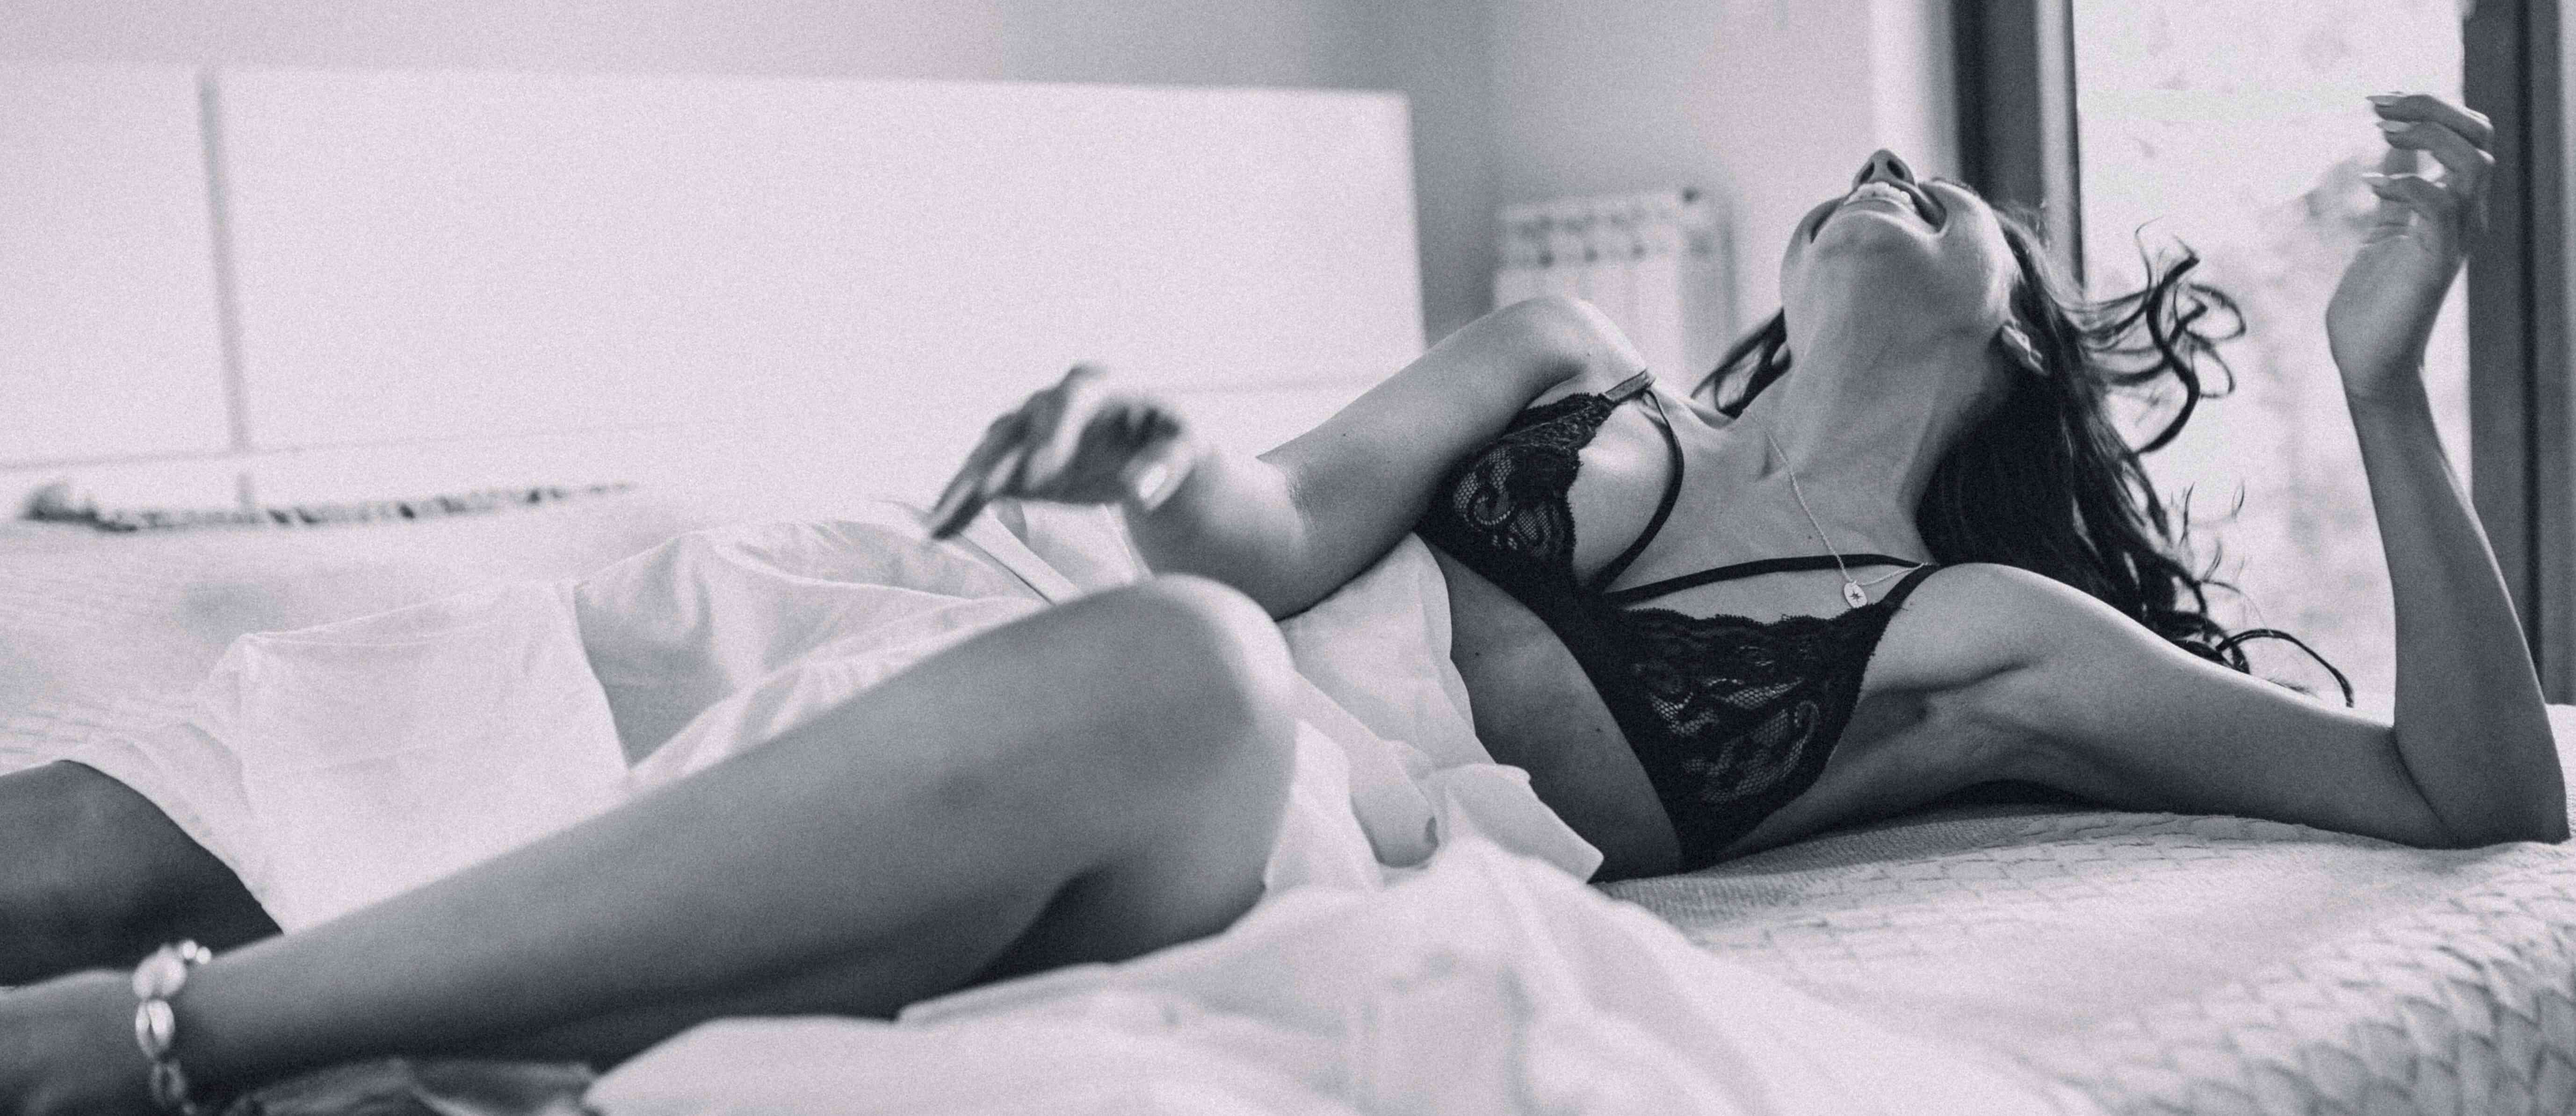
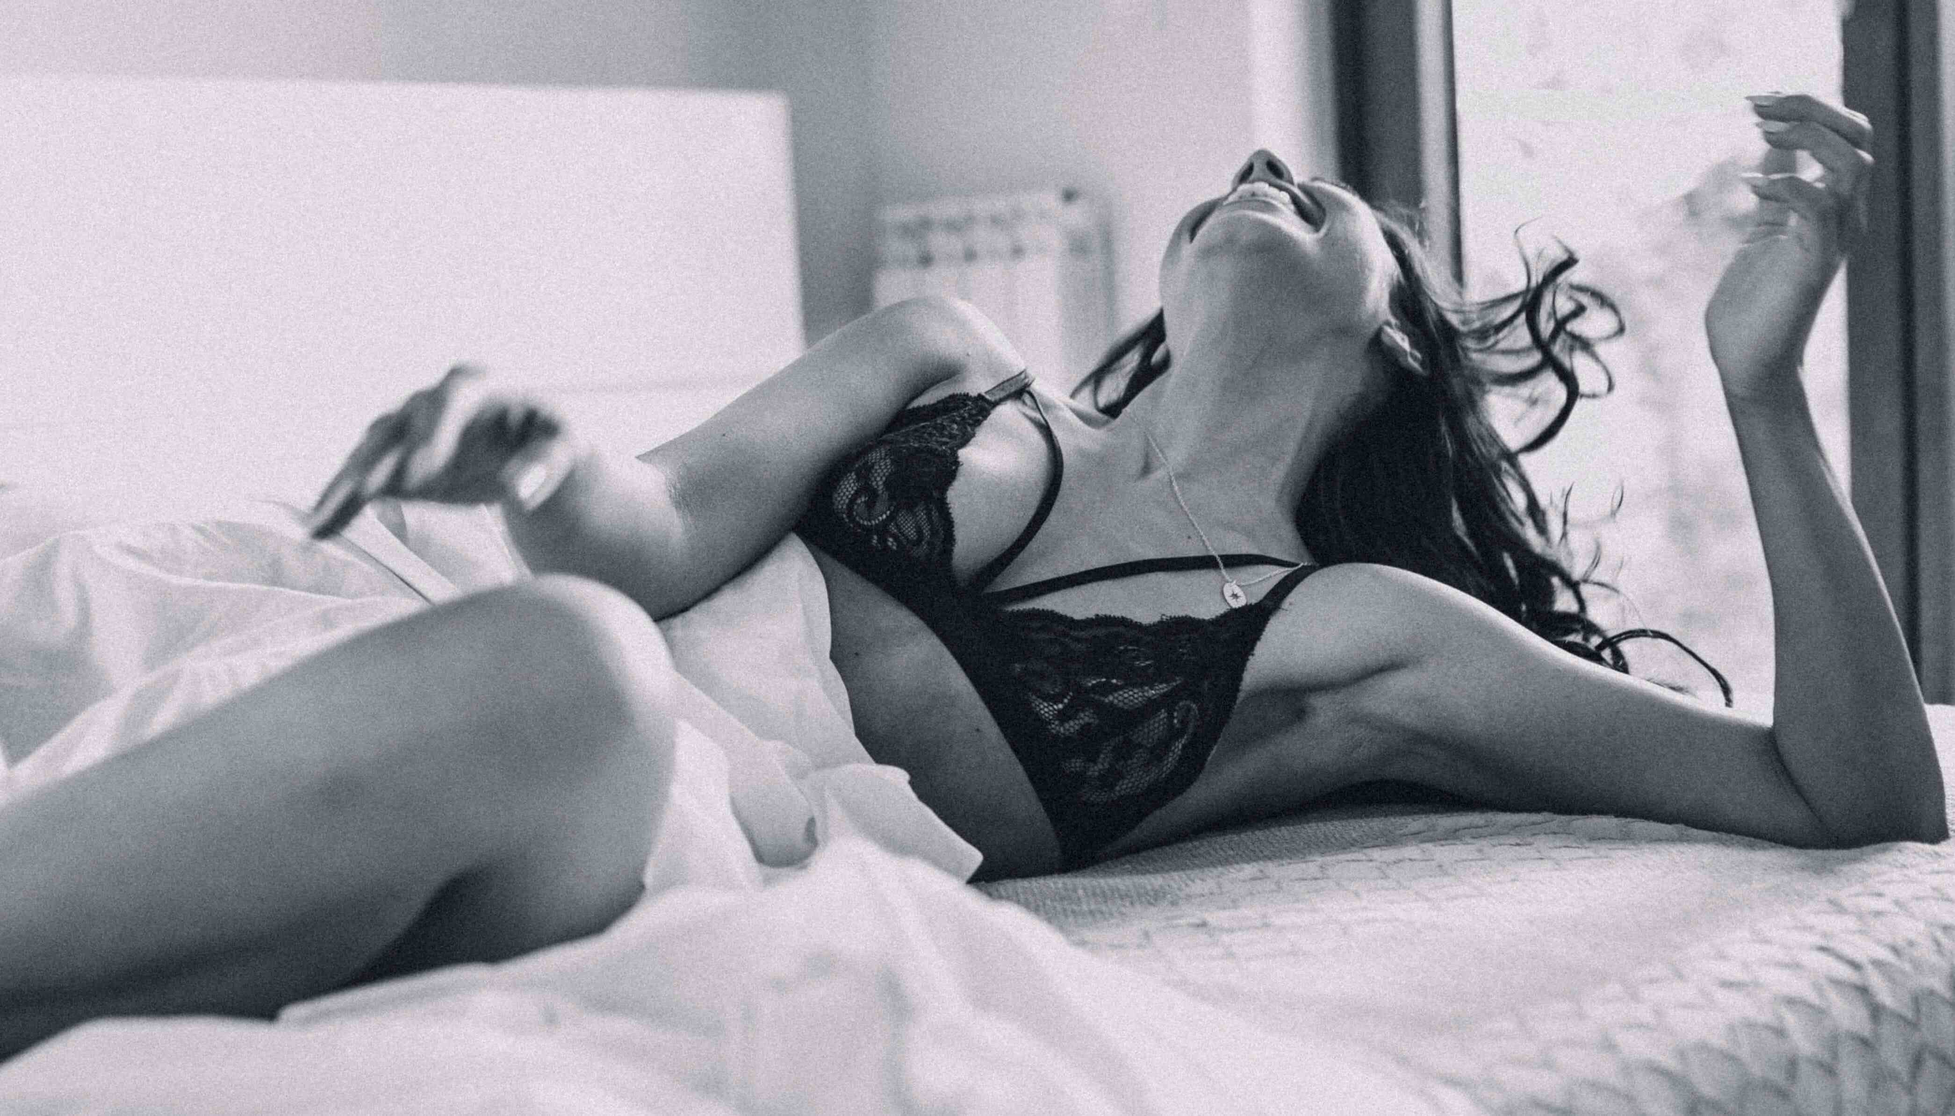
arregladas algunas resoluciones

diff --git a/css/style.css b/css/style.css
@@ -15,9 +15,9 @@
 /* ------- CAROUSEL------------*/
 /* ----------------------------*/
 .carousel-inner .carousel-item {
-  height: 650px; }
+  height: 70vh; }
   .carousel-inner .carousel-item img {
-    height: 650px;
+    height: 70vh;
     object-fit: cover; }
 
 .carousel-inner h1 {
@@ -156,7 +156,8 @@
 /* -------- HEADER ------------*/
 /* ----------------------------*/
 .bgHeroe {
-  background-size: cover; }
+  background-size: cover;
+  background-position: center; }
   .bgHeroe .bgHeroe__format {
     text-transform: uppercase;
     min-height: 50vh;

diff --git a/scss/_carousel.scss b/scss/_carousel.scss
@@ -1,8 +1,8 @@
 .carousel-inner {
   .carousel-item {
-    height: 650px;
+    height: 70vh;
     img {
-      height: 650px;
+      height: 70vh;
       object-fit: cover;
     }
   }

diff --git a/scss/_header.scss b/scss/_header.scss
@@ -1,5 +1,6 @@
 .bgHeroe {
   background-size: cover;
+  background-position: center;
   .bgHeroe__format {
     text-transform: uppercase;
     min-height: 50vh;
